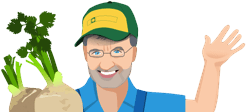
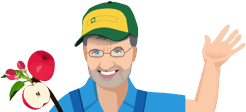
Updated timetracker cli/srv

Changed region(s): [[0.0, 0.0804, 0.3415, 1.0]]

diff --git a/v4/assets/js/lib/kroma.timetracker.js b/v4/assets/js/lib/kroma.timetracker.js
@@ -37,6 +37,8 @@
 
           _options      : {},
           _timer        : false,
+
+          IDLE_TICKER   : 0,
           PREV_EVENT    : new Date().getTime(),
 
           SESSION         : {
@@ -65,23 +67,42 @@
       };
 
       tracker.__onWindowMessage = function (msg) {
+        // receive messages through the postMessage API   -  works in iframe as well
         VGTouchTimeTracker.log( msg.origin + " posted message: " + msg.data );
       };
 
       tracker.__onIdleStart = function () {
-        VGTouchTimeTracker.SESSION.IS_IDLE = true;
+        var
+          self = VGTouchTimeTracker;
+
+        self.SESSION.TIME.active  -= self._options.IDLE_TIMEOUT;
+        self.SESSION.TIME.idle    += self._options.IDLE_TIMEOUT;
+        self.SESSION.IS_IDLE = true;
       };
 
       tracker.__onIdleEnd = function () {
-        VGTouchTimeTracker.SESSION.IS_IDLE = false;
+        self.SESSION.IS_IDLE = false;
       };
 
+
+      // tab activated
       tracker.__onVisible = function () {
-        VGTouchTimeTracker.SESSION.IS_VISIBLE = true;
+        var
+          self = VGTouchTimeTracker;
+        // is session started
+        if(self.SESSION.initialized) {
+          self.SESSION.IS_IDLE = false;
+        }
+          self.SESSION.IS_VISIBLE = true;
       };
 
+      // tab deactivated
       tracker.__onHidden = function () {
-        VGTouchTimeTracker.SESSION.IS_VISIBLE = false;
+        var
+          self = VGTouchTimeTracker;
+
+        self.SESSION.IS_IDLE    = true;
+        self.SESSION.IS_VISIBLE = false;
       };
 
       tracker.__onTimer = function () {
@@ -94,12 +115,12 @@
         }
 
         // send to server every [REPORT_INTERVAL] seconds, incl. at zero
-        if( (self.SESSION.TIME.active % self._options.REPORT_INTERVAL) === 0) {
-          console.log("Tracking active time: " + self.SESSION.TIME.active + "/" + self.SESSION.TIME.total + " sec");
+        if( (self.SESSION.TIME.total % self._options.REPORT_INTERVAL) === 0) {
+          console.log("Tracking active time: " + self.SESSION.TIME.active + "/" + self.SESSION.TIME.total + " (every " + self._options.REPORT_INTERVAL + " sec");
           self.update();
         }
         // else {
-        //   console.log("NOT updating server: " + (self.SESSION.TIME.total % self._options.REPORT_INTERVAL) );
+        //   console.log("NOT updating server: " + (self.SESSION.TIME.total % self._options.REPORT_INTERVAL) + " @ interval: " + self._options.REPORT_INTERVAL);
         // }
 
         self.SESSION.TIME.total++;
@@ -159,8 +180,8 @@
         this._img = new Image();
         this.SESSION.initialized = true;
         return true;
-      };
-
+      }
+      
 
       tracker._sendJSON = function(data) {
         var
@@ -184,6 +205,7 @@
       tracker._sessionTime = function () {
         return this.START_SESSION - new Date().getTime();
       };
+
 
       tracker._sendREQUEST = function(data) {
         var
@@ -337,7 +359,7 @@
 
         self.PREV_EVENT = new Date().getTime();
 
-        if ( (self.PREV_EVENT - previousEventTime) > (self.IDLE_TIMEOUT * 1000) ) {
+        if ( (self.PREV_EVENT - previousEventTime) > (self._options.IDLE_TIMEOUT * 1000) ) {
           self.__onIdleEnd(e);
         }
       };
@@ -393,7 +415,8 @@
           clearInterval(this._timer);
           this._timer = false;
         }
-        this._timer = setInterval(this.__onTimer, interval);
+        this._timer     = setInterval(this.__onTimer, interval);
+        this._idletimer = setInterval(this.__idleTimer, 1000);
       };
 
       window.onerror = this._onError;

diff --git a/v4/index.html b/v4/index.html
@@ -81,7 +81,7 @@ for nå er de her! -->
         </div>
 
         <div id="station2" class="station lazyload ondemand" data-load-event="start_interaction">
-          <div class="drive_in_sign center">Epler!</div>
+          <div class="drive_in_sign center">Eplene<br />er her!!</div>
         </div>
 
         <div id="station3" class="station lazyload ondemand" data-load-event="start_interaction">
@@ -126,7 +126,7 @@ for nå er de her! -->
           <div id="lise_hello" class="interactive">
             <div id="lise_tips" class="sprite lazyload ondemand" data-load-event="arrive_station4">
               <div id="lise_text" class="snakkeboble center">
-                <span class="bold">Hei</span>, jeg heter Lise. Her har du en oppskrift med epler.
+                <span class="bold">Hei</span>, jeg heter Lise. Her er en oppskrift med epler.
               <div class="btn klikkbar">Trykk her!</div>
               </div>
               <div class="btm"></div>
@@ -285,8 +285,6 @@ for nå er de her! -->
   <script src="http://ajax.googleapis.com/ajax/libs/jquery/1.7.1/jquery.min.js"></script> 
   <script async src="assets/js/lib/jquery.parallaxSwipe.js"></script>
   <script async src="assets/js/bama.nyt.norge.js"></script>
-  <script async defer src="assets/js/lib/kroma.timetracker.js"></script>
-
   <div class="push"></div>
 </div>
 <div class="footer code">

diff --git a/v4/assets/js/bama.nyt.norge.js b/v4/assets/js/bama.nyt.norge.js
@@ -203,7 +203,6 @@ $(document).ready(function () {
           eventObject.registered    = false;
           events.push(eventObject);
           console.log("Analytics script not loaded, buffering event: " + eventObject.event);
-          return;
         }
         else {
           if(SESSION.HAS_CACHED_EVENTS) {
@@ -236,7 +235,9 @@ $(document).ready(function () {
             return;
           }
 
-          registerEvent(e.id);
+          if(registerEvent) {
+            registerEvent(e.id);
+          }
 
           if( typeof e.onEvent === "function" ) {
             e.onEvent.call(null, setPoster);

diff --git a/v4/assets/css/bama.main.css b/v4/assets/css/bama.main.css
@@ -367,6 +367,11 @@ http://ryanfait.com/
   }
 
 
+/*
+  extra class to make sure we have an image at the start screen
+
+ */
+
   .lazystart {
     background-image      : url('../img/hill_front1.png'); 
     background-repeat     : repeat-x;
@@ -587,8 +592,6 @@ http://ryanfait.com/
     top           : 6px;
     left          : 12px;
   }
-
-
 
 
   .drive_in_sign {

diff --git a/v4/assets/js/lib/jquery.parallaxSwipe.js b/v4/assets/js/lib/jquery.parallaxSwipe.js
@@ -204,9 +204,7 @@
         }
       }
 
-
     debugdata += "sliderLT is " + sliderLT + "<br />_velocity is " + _velocity + "<br />REQUESTED_POSITION is " + REQUESTED_POSITION + "<br />bounce is " + bouncing;
-
     
     $('#position_data').html(debugdata);
     updateDebugInfo();

diff --git a/srv/kroma.timetracker.php b/srv/kroma.timetracker.php
@@ -4,7 +4,7 @@
 
 
   // activate debugging
-  define('DEBUG', true);
+  define('DEBUG', false);
 
 
   $db       = array('host' => 'localhost', 'db' => 'timetracker', 'password' => '1234tsXX', 'user' => 'debugger', 'table' => 'logs.vgmobil');
@@ -13,9 +13,6 @@
   $debug    = array();
 
   $EVENT    = array();
-
-  $mysqli = new mysqli($db['host'],$db['user'],$db['password'],$db['db']);
-
 
   error_reporting(E_ERROR | E_PARSE & E_NOTICE);
 
@@ -109,7 +106,7 @@
 
 
   function decodeREQUEST () {
-    return json_encode($_REQUEST, JSON_PRETTY_PRINT);
+    return json_encode($_REQUEST, true);
   }
 
 
@@ -151,12 +148,11 @@
       return false;
     }
 
-    $fields = 'session_id, event, total_time, active_time, idle_time, user_agent';
+    $fields = 'session_id, event, total_time, active_time, idle_time, user_agent, ip';
 
     // do not add quotes around the whole string, we do that in the query
     // this is simply an adaptation that lets us easily use implode() on arrays
-    $values = "{$entry['data']['start']}','{$entry['event']}', '{$entry['data']['TIME']['total']}', '{$entry['data']['TIME']['active']}', '{$entry['data']['TIME']['idle']}', '" . $mysqli->real_escape_string($_SERVER['HTTP_USER_AGENT']);
-
+    $values = "{$entry['data']['start']}','{$entry['event']}', '{$entry['data']['TIME']['total']}', '{$entry['data']['TIME']['active']}', '{$entry['data']['TIME']['idle']}', '" . $mysqli->real_escape_string($_SERVER['HTTP_USER_AGENT']) . "', '" . $mysqli->real_escape_string($_SERVER['REMOTE_ADDR']);
 
     $query    = "INSERT INTO `" . $db['db'] . "`.`" . $db['table'] . "` ($fields) 
                   VALUES('$values')
@@ -194,12 +190,12 @@
     if( false === ($redis = connectToRedis())) {
       return false;
     }
-    $redis->publish($chan, $msg);
+    $redis->publish(REDIS_DEBUG_CHANNEL, json_encode($entry));
   }
 
 
   function sendResponse ($reply) {
-    print(json_encode($reply, JSON_PRETTY_PRINT));
+    print(json_encode($reply));
   }
 
 
@@ -248,6 +244,7 @@
 
   $logEntry = decodeLogEntry($REQUEST_FORMAT);
 
+  $logEntry['ip'] = $_SERVER['REMOTE_ADDR'];
 
   $db_result = updateLogEntry($logEntry);
   publishLogEntry($logEntry);
